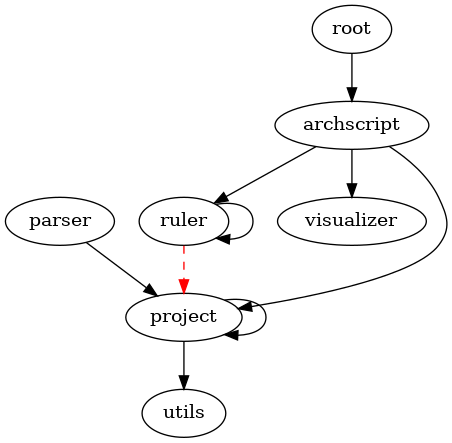
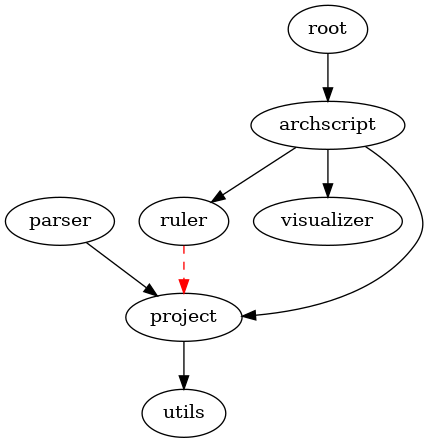
Começo da refatoração

diff --git a/archscript/src/parser/ParserN.ts b/archscript/src/parser/ParserN.ts
@@ -1,0 +1,240 @@
+import { readFileSync } from "fs"
+import { Importation } from "../project/importation";
+import { Component } from "../project/component";
+import ts from "typescript";
+import { string } from "yargs";
+
+function printRecursiveFrom(
+    node: ts.Node, indentLevel: number
+) {
+    const indentation = "-".repeat(indentLevel);
+    const syntaxKind = ts.SyntaxKind[node.kind];
+    console.log(`${indentation}${syntaxKind}`);
+    node.forEachChild(child =>
+        printRecursiveFrom(child, indentLevel + 1)
+    );
+}
+
+const tableOfSymbols = new Map<string, any>()
+const customTypes = new Map<string, any>()
+
+function getParsingFile(path: string): ts.SourceFile {
+    return ts.createSourceFile(
+        path,
+        readFileSync(path).toString(),
+        ts.ScriptTarget.ES2021,
+        true,
+        ts.ScriptKind.TS
+    )
+}
+
+export function parse(file: string) {
+    const sourceFile = getParsingFile(file)
+    defineTableOfSymbols(sourceFile)
+}
+
+function delintNode(node: ts.Node) {
+    switch (node.kind) {
+        case ts.SyntaxKind.MethodDeclaration:
+            // nome, tipoRetorno, tipoSimbolo
+            break
+        case ts.SyntaxKind.FunctionDeclaration:
+            // nome, tipoRetorno, tipoSimbolo
+            break
+        case ts.SyntaxKind.VariableDeclaration:
+            // nome, tipoObjeto, tipoSimbolo
+            break
+        case ts.SyntaxKind.PropertySignature: // Interface
+        case ts.SyntaxKind.PropertyDeclaration: // Classe
+            break
+        case ts.SyntaxKind.Parameter:
+            // nome, tipoObjeto, tipoSimbolo
+            break
+        case ts.SyntaxKind.ClassDeclaration:
+            // nome, tipoSimbolo
+            break
+        case ts.SyntaxKind.InterfaceDeclaration:
+            break
+        case ts.SyntaxKind.ImportDeclaration:
+            break
+        case ts.SyntaxKind.ExportAssignment:
+        case ts.SyntaxKind.ExportDeclaration:
+        case ts.SyntaxKind.ExportSpecifier:
+            break
+        default:
+            node.forEachChild(delintNode)
+    }
+}
+}
+
+function defineTableOfSymbols(sourceFile: ts.SourceFile) {
+    sourceFile.forEachChild(delintNode)
+}
+
+function expandTableOfSymbols() {
+
+}
+
+class Parser {
+    namespace: Array<string>
+    sourceFile: ts.SourceFile
+
+    constructor(path: string) {
+        this.sourceFile = ts.createSourceFile(
+            path,
+            readFileSync(path).toString(),
+            ts.ScriptTarget.ES2021,
+            true,
+            ts.ScriptKind.TS
+        )
+        this.namespace = []
+    }
+
+
+    run(module: string): [Array<Component>, Array<Importation>] {
+        let namespaces: Array<string> = []
+        let components: Array<Component> = []
+        let importations: Array<Importation> = []
+
+        function getIdentifier(node: ts.Node): string {
+            let identifier: string = "default_identifier"
+            let found = false
+            node.forEachChild(child => {
+                if (child.kind === ts.SyntaxKind.Identifier && !found) {
+                    identifier = child.getText()
+                    found = true
+                }
+            })
+            return identifier
+        }
+
+        function isExported(node: ts.Node): boolean {
+            let exported = false
+            node.forEachChild(child => {
+                if (child.kind === ts.SyntaxKind.ExportKeyword) {
+                    exported = true
+                }
+            })
+            return exported
+        }
+
+        function getImportation(node: ts.Node) {
+            let importedModule = ""
+            let namedImports: Array<string> = []
+            function parseImportation(child: ts.Node) {
+                switch (child.kind) {
+                    case ts.SyntaxKind.StringLiteral:
+                        importedModule = child.getText()
+                        break
+                    case ts.SyntaxKind.ImportSpecifier:
+                        namedImports.push(getIdentifier(child))
+                        break
+                    default:
+                        child.forEachChild(parseImportation)
+                }
+            }
+            node.forEachChild(parseImportation)
+            return new Importation(module, importedModule, namedImports)
+        }
+
+        function getType(node: ts.Node): string {
+            let type: string = "any"
+            node.forEachChild(child => {
+                switch (child.kind) {
+                    case ts.SyntaxKind.StringKeyword:
+                    case ts.SyntaxKind.StringLiteral:
+                        type = "string"
+                        break
+                    case ts.SyntaxKind.NumberKeyword:
+                    case ts.SyntaxKind.NumericLiteral:
+                        type = "number"
+                        break
+                    case ts.SyntaxKind.AnyKeyword:
+                        type = "any"
+                        break
+                    case ts.SyntaxKind.BooleanKeyword:
+                    case ts.SyntaxKind.TrueKeyword:
+                    case ts.SyntaxKind.FalseKeyword:
+                        type = "boolean"
+                        break
+                    case ts.SyntaxKind.TypeReference:
+                        type = child.getChildren().map(c => c.getText()).join("")
+                        break
+                    case ts.SyntaxKind.ArrayLiteralExpression: // Aprofundar quanto a outros tipos de array
+                        if (type === "default_type") {
+                            type = "undefined array"
+                        }
+                        break
+                    case ts.SyntaxKind.NewExpression:
+                        child.forEachChild(c => {
+                            switch (c.kind) {
+                                case ts.SyntaxKind.Identifier:
+                                    type = c.getText()
+                            }
+                        })
+                        break
+                }
+            })
+            return type
+        }
+
+        function delintNode(node: ts.Node) {
+            let component = new Component()
+            component.namespace = [...namespaces]
+            component.module = module
+            switch (node.kind) {
+                case ts.SyntaxKind.MethodDeclaration:
+                    component.kind = "method"
+                case ts.SyntaxKind.FunctionDeclaration:
+                    component.kind = "function"
+                    break
+                case ts.SyntaxKind.VariableDeclaration:
+                    component.kind = "variable"
+                    component.type = getType(node)
+                    break
+                case ts.SyntaxKind.ClassDeclaration:
+                    component.kind = "class"
+                    break
+                case ts.SyntaxKind.InterfaceDeclaration:
+                    component.kind = "interface"
+                    break
+                case ts.SyntaxKind.ImportDeclaration:
+                    importations.push(getImportation(node))
+                    break
+                case ts.SyntaxKind.Parameter:
+                    component.kind = "parameter"
+                    component.type = getType(node)
+                    break
+                case ts.SyntaxKind.PropertySignature:
+                case ts.SyntaxKind.PropertyDeclaration:
+                    component.kind = "property"
+                    component.type = getType(node)
+                    break
+                case ts.SyntaxKind.ExportAssignment:
+                case ts.SyntaxKind.ExportDeclaration:
+                case ts.SyntaxKind.ExportSpecifier:
+                    // printRecursiveFrom(node, 0)
+                    break
+                default:
+                    node.forEachChild(delintNode)
+            }
+
+            if (["function", "class", "interface", "method"].includes(component.kind)) {
+                namespaces.push(getIdentifier(node))
+                node.forEachChild(delintNode)
+                namespaces.pop()
+            }
+
+            if (component.kind !== "") {
+                component.identifier = getIdentifier(node)
+                component.exported = isExported(node)
+                component.defineGlobalIdentifier()
+                components.push(component)
+            }
+        }
+        ts.forEachChild(this.sourceFile, delintNode)
+        return [components, importations]
+    }
+}
+
+export { Parser }

diff --git a/archscript/src/archscript/Archscript.ts b/archscript/src/archscript/Archscript.ts
@@ -4,6 +4,8 @@ import { GraphRepresentation } from "../visualizer/GraphRepresentation";
 import { Project } from "../project/project"
 // import { Rules } from "./Rules";
 
+import { parse } from "../parser/ParserN"
+
 export class Archscript {
     project: Project
     rules: Ruler
@@ -20,9 +22,11 @@ export class Archscript {
         //     new Parser(`${this.project.codePath}/${file}`)
         //         .run(file.replace(".ts", "")))
 
-        const drifts = this.rules.getDrifts()
-        drifts.forEach(drift => console.log(`${drift}`))
-        const dependencies = this.project.getModulesDependencies()
-        new GraphRepresentation(dependencies, drifts.map(drift => [drift.module, drift.targetModule])).render(output)
+        this.project.files.forEach(file => parse(file))
+
+        // const drifts = this.rules.getDrifts()
+        // drifts.forEach(drift => console.log(`${drift}`))
+        // const dependencies = this.project.getModulesDependencies()
+        // new GraphRepresentation(dependencies, drifts.map(drift => [drift.module, drift.targetModule])).render(output)
     }
 }

diff --git a/archscript/src/project/project.ts b/archscript/src/project/project.ts
@@ -75,8 +75,9 @@ export class Project {
         })
 
         dependencies.forEach((value, key, arr) => {
-            arr.set(key, [...new Set(value)])
+            arr.set(key, [...new Set(value)].filter(dependency => dependency != key))
         })
+
 
         return dependencies
     }
